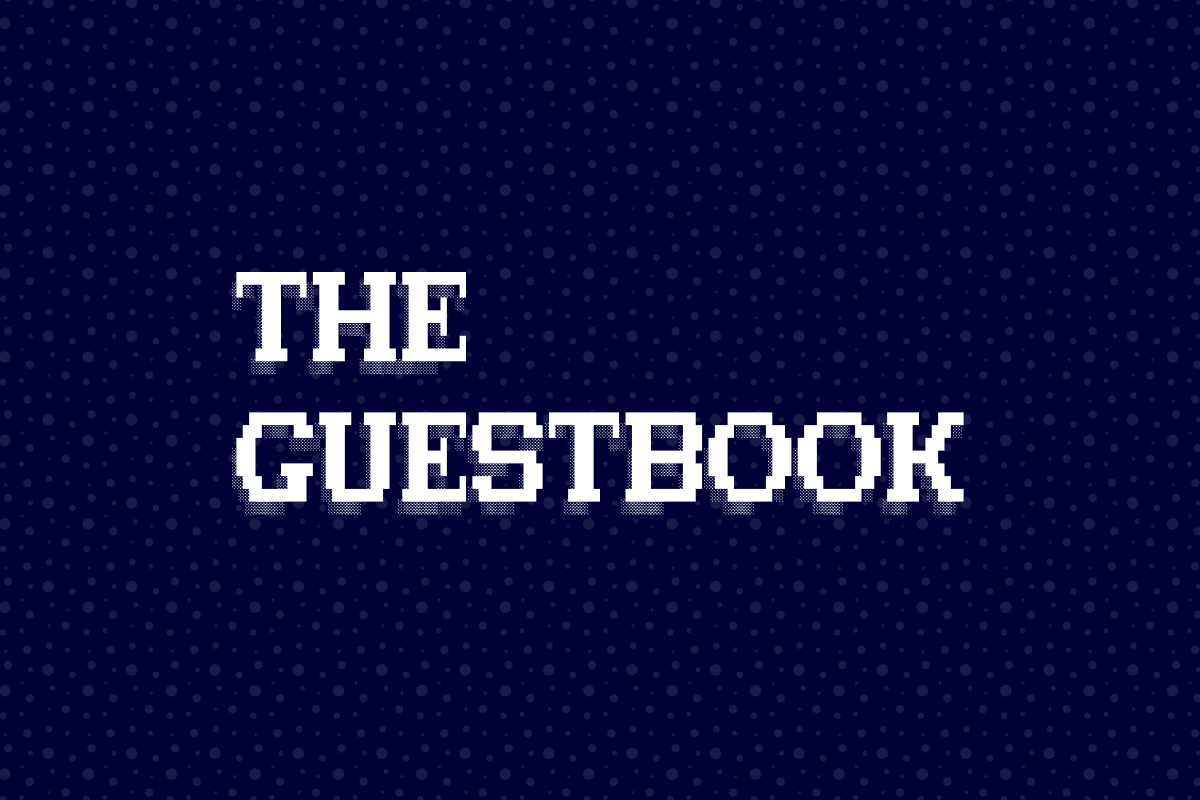
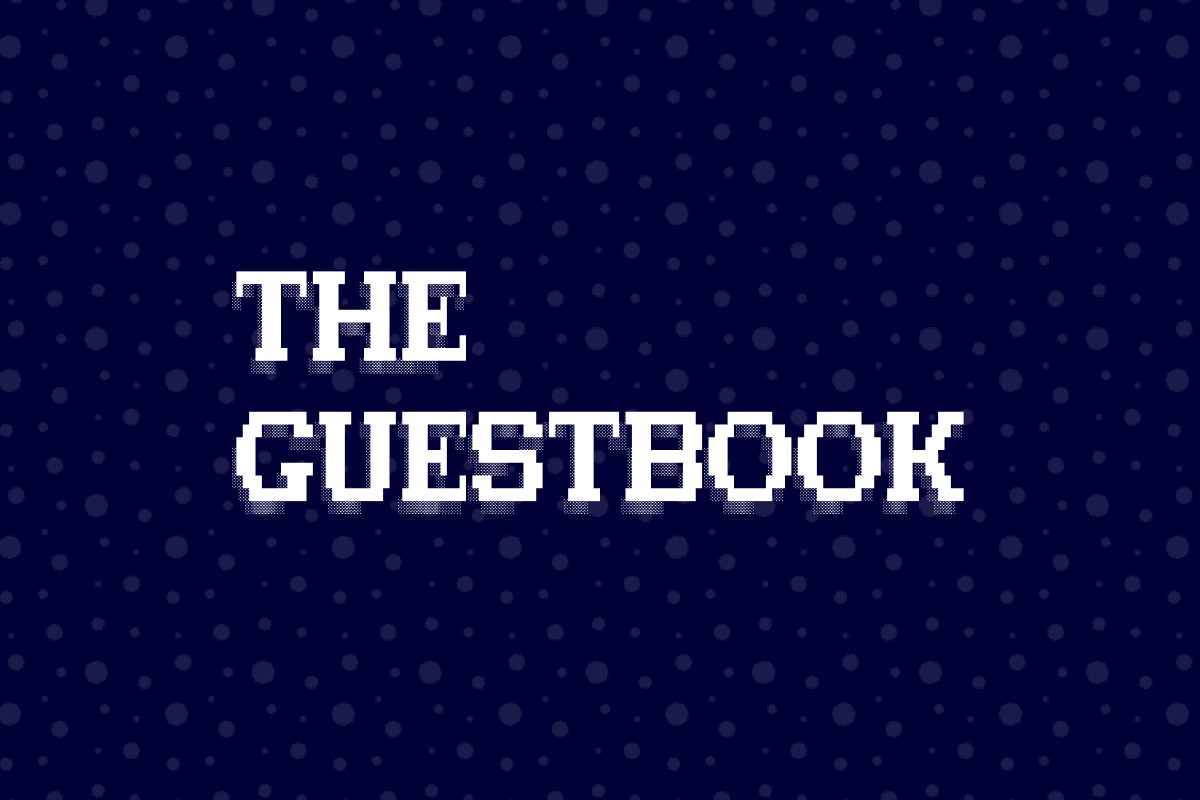
Update Farcaster frame metadata and assets with refined branding

diff --git a/src/App.tsx b/src/App.tsx
@@ -11,12 +11,12 @@ function App() {
         <meta name='description' content='Leave your message onchain' />
         <meta name='keywords' content='guestbook, web3, blockchain, 90s, retro, nostalgia' />
         <meta name='viewport' content='width=device-width, initial-scale=1.0' />
-        <meta name='theme-color' content='#000080' />
+        <meta name='theme-color' content='#000033' />
         <meta name='author' content='@iammatthias' />
         {/* Frame Embed */}
         <meta
           name='fc:frame'
-          content='{"version":"next","imageUrl":"https://theguestbook.xyz/image.png","button":{"title":"Explore","action":{"type":"launch_frame","name":"Explore","url":"https://theguestbook.xyz","splashImageUrl":"https://theguestbook.xyz/icon.png","splashBackgroundColor":"#242424"}}}'
+          content='{"version":"next","imageUrl":"https://theguestbook.xyz/image.png","button":{"title":"Explore","action":{"type":"launch_frame","name":"Explore","url":"https://theguestbook.xyz","splashImageUrl":"https://theguestbook.xyz/splash.png","splashBackgroundColor":"#000033"}}}'
         />
       </Head>
       <WagmiProvider>
